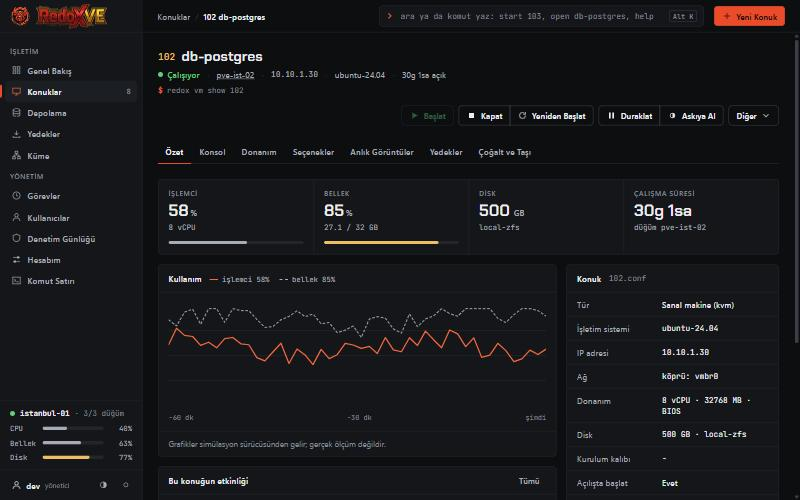
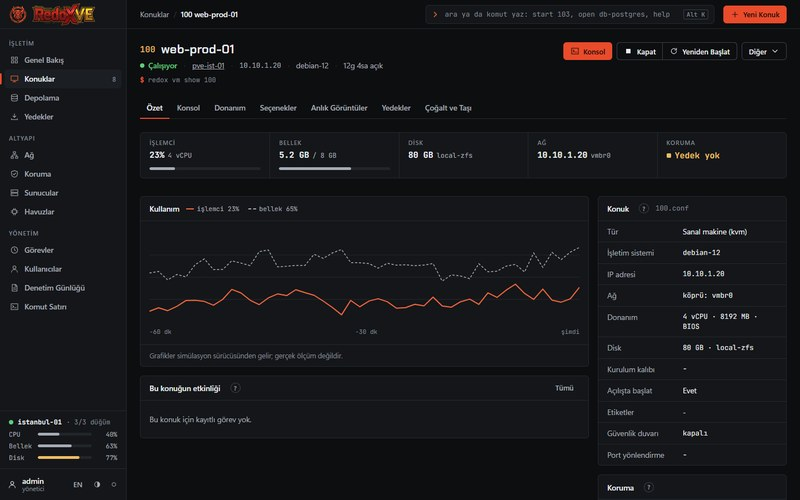
docs: describe the regrouped panel and refresh the screenshots
README, the install guides and the wiki sources name the new Network,
Protection and Servers pages, the guest header and the per-user Manage
menu. Screenshots are retaken from the new layout; the live console one
is unchanged.

diff --git a/docs/wiki/en/Multiple-Servers.md b/docs/wiki/en/Multiple-Servers.md
@@ -5,11 +5,11 @@
 # Multiple servers
 
 RedoX VE has no shared cluster state: each server manages its own guests. Servers are introduced to each other as
-**peers** (`--peers FILE`, each line `NAME ADDRESS TOKEN`); the *Cluster* page shows them together.
+**peers** (`--peers FILE`, each line `NAME ADDRESS TOKEN`); the *Servers* page shows them together.
 
 ## Moving
 
-Buttons next to a peer's guest on the *Cluster* page:
+Buttons next to a peer's guest on the *Servers* page:
 
 - **Copy Here:** copies a stopped virtual machine to this server through its backup. The source stays; you delete it
   there once you see it running here.
@@ -21,17 +21,17 @@ Buttons next to a peer's guest on the *Cluster* page:
   briefly during the backup); the copy arrives stopped. LXC must be installed on this server. **Tested with fake LXC
   tools; not tried with real LXC.**
 
-**Live migration:** a running VM can also be moved **without stopping it** (*Migrate Live* on the *Cluster* page, or `redox peer migrate <peer> <id>` on the target). The target starts the guest's QEMU paused and waiting, the source mirrors every disk to it while the guest keeps running, then migrates the memory; the guest pauses only for the last memory pages (tens of milliseconds in the tests) and continues on the target with the same ID. The guest's record and disks stay on the source, stopped and marked so that they do not start again by themselves; delete them once you are satisfied.
+**Live migration:** a running VM can also be moved **without stopping it** (*Migrate Live* on the *Servers* page, or `redox peer migrate <peer> <id>` on the target). The target starts the guest's QEMU paused and waiting, the source mirrors every disk to it while the guest keeps running, then migrates the memory; the guest pauses only for the last memory pages (tens of milliseconds in the tests) and continues on the target with the same ID. The guest's record and disks stay on the source, stopped and marked so that they do not start again by themselves; delete them once you are satisfied.
 
 The two QEMU processes connect to each other directly: the source must be able to reach the target on the ports given with `--migrate-ports` (default 49152-49215, two per migration; open them between the servers only). If the address the source sees the target under differs from where the request came from, set `--migrate-host` on the target. Both connections are encrypted with a one-time key (TLS with a pre-shared key) that travels over the management connection, so use `https` between the servers.
 
 Not every guest can be moved live: UEFI or virtual TPM, an attached installation image, a cloud-init drive, shared folders, passed-through host devices and disks that depend on a template or backup block it (the message says which); the same ID must be free on the target, and both servers need the same QEMU version and a compatible CPU model. Tested on real QEMU 10.2 with a Linux guest on one machine (two servers, loopback network); not tried between two physical machines, with a Windows guest, or with large and busy guests.
 
-**Evacuating a server for maintenance:** `redox maintenance on --evacuate <peer>` (or *Evacuate My Guests Here* next to the peer on the *Cluster* page) puts this server into maintenance mode and moves its running virtual machines to the peer one by one, without stopping them. Guests that cannot be migrated live stay where they are; add `--drain` to stop those instead (they start again when maintenance ends). The peer does the pulling, so it must list this server in its own `--peers` file; if it cannot be recognised by address, give the name it has there with `--as`. The moved guests keep running on the peer when maintenance ends. To bring one back, use *Migrate Live* from this server: the guest returns with the same ID and replaces the stopped copy that was left behind (its backups stay attached). A left-behind copy that has been started by hand is treated as a guest in its own right and is never replaced. Tested with fake QEMU between two servers; the migration underneath is the same one tested on real QEMU.
+**Evacuating a server for maintenance:** `redox maintenance on --evacuate <peer>` (or *Evacuate My Guests Here* next to the peer on the *Servers* page) puts this server into maintenance mode and moves its running virtual machines to the peer one by one, without stopping them. Guests that cannot be migrated live stay where they are; add `--drain` to stop those instead (they start again when maintenance ends). The peer does the pulling, so it must list this server in its own `--peers` file; if it cannot be recognised by address, give the name it has there with `--as`. The moved guests keep running on the peer when maintenance ends. To bring one back, use *Migrate Live* from this server: the guest returns with the same ID and replaces the stopped copy that was left behind (its backups stay attached). A left-behind copy that has been started by hand is treated as a guest in its own right and is never replaced. Tested with fake QEMU between two servers; the migration underneath is the same one tested on real QEMU.
 
 ## Load balancing advice
 
-When this server is busy (memory or CPU at 80% or more), the *Cluster* page shows a **Load balancing advice** card and
+When this server is busy (memory or CPU at 80% or more), the *Servers* page shows a **Load balancing advice** card and
 `redox balance` prints the same thing: which running virtual machine would help if it were live-migrated to which
 peer, and what the memory use would be on both sides afterwards. Nothing is moved automatically; each line has a
 *Send* button (`redox peer send <peer> <id>`), which live-migrates that virtual machine from this server to the peer.
@@ -74,7 +74,7 @@ redox mirror promote <source> 103           # take over: creates a STOPPED guest
 redox mirror delete-copy <source> 103
 ```
 
-The *Cluster* page has the same in the **Disk mirroring** and **Copies held here** cards.
+The *Protection* page has the same in the **Disk mirroring** and **Copies held here** cards.
 
 **What happens when something fails**
 
@@ -124,7 +124,7 @@ redox ft twins                     # on the twin server
 redox ft off 103
 ```
 
-The *Cluster* page has the same in the **Fault tolerance** card.
+The *Protection* page has the same in the **Fault tolerance** card.
 
 **What guest can be protected.** A virtual machine with **one disk** and **one bridged network card**, and no extra
 hardware: no hot-add, balloon, UEFI, TPM, passthrough, shared folders, ISO, cloud-init, VLAN tag, guest firewall or

diff --git a/KURULUM.md b/KURULUM.md
@@ -388,7 +388,7 @@ Sürücünün sunduğu işlemler (konuk sayfasındaki sekmelerden):
   disk alınır. Dışa aktarmak için kapalı konuğun *Çoğalt ve Taşı* sekmesinde **OVA Olarak İndir** (ya da
   `curl -H "Authorization: Bearer $REDOX_TOKEN" -o vm.ova $REDOX_URL/api/v1/guests/103/export`): tanım ve bütün diskler
   (streamOptimized vmdk) tek arşivde gelir.
-- **Askıya alma:** konuk sayfasının başlığında **Askıya Al** (ya da `redox vm suspend 103`): konuğun bellek ve aygıt
+- **Askıya alma:** konuk sayfasının başlığındaki **Diğer** menüsünde **Askıya Al** (ya da `redox vm suspend 103`): konuğun bellek ve aygıt
   durumu diske (`images/vm-<kimlik>.state`) yazılır ve konuk kapanır; sunucuyu yeniden başlatabilirsiniz. **Başlat**
   konuğu kaldığı yerden sürdürür (duraklatılmışken askıya alındıysa duraklatılmış döner). Askıdayken disk ve donanım
   değiştirilemez: geri yükleme, anlık görüntüye dönüş, disk ekleme reddedilir; yedek alınabilir (yedek yalnızca diski
@@ -528,7 +528,7 @@ Sürücünün sunduğu işlemler (konuk sayfasındaki sekmelerden):
   bildirim). Ek disk silme, yedek işi silme ve kullanıcı silme de aynı kurala bağlıdır. İstek sahibi kendi isteğini onaylayamaz, 24 saatte onaylanmayan istek düşer. En az iki yönetici
   hesabı gerekir. Zamanlayıcının saklama budaması bu kuralın dışındadır. Aynı kişinin iki hesabı varsa kural onu
   durdurmaz: amaç, ele geçirilen tek bir hesabın yedekleri silememesidir.
-- **Çoğaltma (yedek kopya):** *Küme* sayfasındaki **Çoğaltma** kartı ya da `redox replica add <eş> <kimlik> 60`.
+- **Çoğaltma (yedek kopya):** *Koruma* sayfasındaki **Çoğaltma** kartı ya da `redox replica add <eş> <kimlik> 60`.
   Eş sunucudaki sanal makinenin kopyası bu sunucuda verdiğiniz aralıkla (15 dakika – 1 hafta) tazelenir; kaynak
   çalışmaya devam eder, askıya alınmaz. Kopya `<ad>-kopya` adıyla kapalı durur; kaynak sunucu ölürse onu buradan
   başlatırsınız (kayıp, son turdan beri yazılanlardır). Çalışan bir kopyanın üzerine yazılmaz. **Her tur diskin
@@ -538,7 +538,7 @@ Sürücünün sunduğu işlemler (konuk sayfasındaki sekmelerden):
   sırasının tersine kapatılır; kipteyken hiçbir konuk başlatılmaz, zamanlanmış yedekler, güç işlemleri, çoğaltma ve
   kendiliğinden yeniden başlatma durur. Kip durum dosyasında saklanır: sunucu bu sırada yeniden başlasa da konuklar
   açılmaz. `redox maintenance off` kapatılan konukları açılış sırasıyla yeniden başlatır. Konukları başka sunucuya
-  kendiliğinden taşımaz; taşımak istediklerinizi önce öbür sunucunun *Küme* sayfasından alın.
+  kendiliğinden taşımaz; taşımak istediklerinizi önce öbür sunucunun *Sunucular* sayfasından alın.
 - **Zamanlanmış yedek sınaması:** hizmet satırına `--backup-test-every 7@03:00`. Her sanal makinenin en yeni yedeği
   7 günde bir, 03:00'ten başlayan dört saatlik pencerede sırayla (aynı anda tek sınama) açılıp sınanır; sonuç
   yedeğin satırına ve günlük rapora yazılır.
@@ -706,7 +706,7 @@ Arayüz Türkçe ve İngilizcedir. Her kullanıcı üst çubuktaki **EN / TR** d
 
 ### 10.2 Birleşik görünüm (birden çok sunucu)
 
-Birkaç RedoX VE sunucunuz varsa birini "merkez" yapıp diğerlerinin düğüm ve konuklarını **Küme**
+Birkaç RedoX VE sunucunuz varsa birini "merkez" yapıp diğerlerinin düğüm ve konuklarını **Sunucular**
 sayfasında görebilirsiniz. Bu **gerçek bir küme değildir**: görünüm salt okunurdur, her sunucu kendi
 konuklarını yönetir; ortak durum ve kendiliğinden devralma yoktur (konuk taşıma aşağıda). Konuğun adına tıklamak
 sizi o sunucunun arayüzüne götürür (orada ayrıca giriş yaparsınız).
@@ -736,7 +736,7 @@ edilir. Eşin sertifikası geçerli olmalıdır (kendinden imzalı sertifika red
 token'ı reddeden eş sayfada nedeniyle birlikte gösterilir; diğerleri etkilenmez. Komut satırından:
 `redox peer list`.
 
-**Sanal makine taşıma:** eşteki **kapalı** bir sanal makineyi merkeze kopyalamak için *Küme* sayfasındaki
+**Sanal makine taşıma:** eşteki **kapalı** bir sanal makineyi merkeze kopyalamak için *Sunucular* sayfasındaki
 **Buraya Al** düğmesini ya da `redox peer import izmir 103` komutunu kullanın. Bunun için eş dosyasındaki token
 eşte **yönetici** yetkili olmalıdır. Merkez eşte bir yedek aldırır, indirir, yeni bir kimlikle konuğu oluşturur ve
 eşteki geçici yedeği siler. Kaynak konuk yerinde kalır: kopyanın çalıştığını görünce eşte siz silersiniz. Köprü
@@ -873,7 +873,7 @@ sudo -u redox redox user scope nobet web,test --users /var/lib/redox/users.json 
 ```
 
 Kapsam boşsa operatör bütün konuklarda yetkilidir. Operatör bütün konukları **görür**; kapsam yalnızca işlem yapmayı
-kısıtlar. Kaynak kotaları için 8. bölümdeki *Kaynak havuzları* maddesine bakın. Rol ve kapsam *Kullanıcılar* sayfasından da değişir.
+kısıtlar. Kaynak kotaları için 8. bölümdeki *Kaynak havuzları* maddesine bakın. Rol ve kapsam *Kullanıcılar* sayfasında, kullanıcının **Yönet** menüsünden açılan sayfadan da değişir.
 
 **Tek oturum açma (OpenID Connect):** kimlik sağlayıcınızda (Keycloak, Authentik, Google, Microsoft Entra) bir istemci
 oluşturun; dönüş adresi `https://redox.example.com/login/oidc/callback` olsun.

diff --git a/INSTALL.md b/INSTALL.md
@@ -437,7 +437,7 @@ What the driver offers, from the tabs of a guest page:
   **another** administrator (`redox approval list | approve <n> | reject <n>`, or the notice at the top of every
   page). Removing an extra disk, a backup job or a user follows the same rule. The requester cannot approve their own request; requests expire after 24 hours. Needs at least two
   administrator accounts. Retention pruning by the scheduler is exempt.
-- **Replication (standby copy):** the **Çoğaltma** card on the cluster page, or `redox replica add <peer> <id> 60`.
+- **Replication (standby copy):** the **Çoğaltma** card on the protection page (*Koruma*), or `redox replica add <peer> <id> 60`.
   A copy of a peer's VM is refreshed on this server at the interval you give (15 minutes to 1 week); the source
   keeps running and is not suspended. The copy is a stopped guest named `<name>-kopya`; if the source server dies
   you start it here (you lose what was written since the last run). A running copy is never overwritten. **Every
@@ -587,8 +587,8 @@ with `REDOX_LANG=en`; `--lang en` also makes the server's startup messages, aler
 
 ### 10.2 Combined view (several servers)
 
-With several RedoX VE servers, make one the hub and see the others' nodes and guests on the cluster page
-(*Küme*). This is **not a real cluster**: the view is read-only and each server manages its own guests.
+With several RedoX VE servers, make one the hub and see the others' nodes and guests on the servers page
+(*Sunucular*). This is **not a real cluster**: the view is read-only and each server manages its own guests.
 
 1. On every **peer**, create a read-only user and a token:
 
@@ -610,7 +610,7 @@ With several RedoX VE servers, make one the hub and see the others' nodes and gu
 
 The URL must be `https://`; plain `http://` is accepted only for peers on the same machine. `redox peer list`.
 
-**Moving a VM:** *Buraya Al* on the cluster page, or `redox peer import izmir 103`, copies a **stopped** VM from
+**Moving a VM:** *Buraya Al* on the servers page (*Sunucular*), or `redox peer import izmir 103`, copies a **stopped** VM from
 a peer to the hub. The token in the peer file must be an **admin** token on the peer. The hub has the peer take
 a backup, downloads it, creates the guest and deletes the temporary backup. The source stays in place. A bridge
 that does not exist on the hub becomes NAT; USB/PCI passthrough is dropped. Extra disks come with their numbers

diff --git a/README.tr.md b/README.tr.md
@@ -53,7 +53,7 @@ geliştirme sunucusu. Kümelenmiş bir sanallaştırıcı değildir ([Sınırlar
 - Dağıtık anahtarlar (`redox switch`): bir kez tanımlanıp bütün eşlere gönderilen ortak VXLAN konuk ağı; ağı küçük bir root yardımcısı kurar ve yalnızca kendi aygıtlarına dokunur.
 - Yük dengeleme önerisi (`redox balance`): sunucu sıkıştığında çalışan hangi sanal makinenin hangi eşe canlı taşınacağını söyler; kendiliğinden bir şey taşımaz, taşımayı `redox peer send` yapar.
 - Sunucu profili (`redox profile export | diff | apply`): bir sunucunun ayarlarını başkasıyla karşılaştırır, havuzları ve yedek işlerini eşitler.
-- Destek paketi (`redox support > destek.json` ya da *Küme* sayfası): sürüm, yetenekler, ayarlar, konukların donanımı ve son görevler tek dosyada; parola, token ve denetim günlüğü içermez.
+- Destek paketi (`redox support > destek.json` ya da *Sunucular* sayfası): sürüm, yetenekler, ayarlar, konukların donanımı ve son görevler tek dosyada; parola, token ve denetim günlüğü içermez.
 - Sunucunun kendi konsolunda durum ekranı: ad, adresler, panelin adresi, hizmetin yanıt verip vermediği ve çalışan konuk sayısı; Enter ile oturum açılır.
 - `vmdk`, `vdi`, `vhdx` disklerini ve OVA arşivlerini içe aktarma; konuğu OVA olarak dışa aktarma.
 - Şablonlar, tam klonlar ve bağlı klonlar (bağlı klon bir saniyenin altında hazır olur).

diff --git a/README.md b/README.md
@@ -58,7 +58,7 @@ development host. It is not a clustered hypervisor (see [Limits](#limits)).
 - Distributed switches (`redox switch`): one VXLAN guest network defined once and sent to every peer; a small root helper builds it and touches only its own devices.
 - Load balancing advice (`redox balance`): when a server is busy, which running VM to live-migrate to which peer; nothing moves by itself, `redox peer send` does the move.
 - Server profiles (`redox profile export | diff | apply`): compare one server's settings with another's and bring pools and backup jobs in line.
-- A support bundle (`redox support > bundle.json`, or *Cluster* page): version, capabilities, settings, guest hardware and recent tasks in one file, without passwords, tokens or the audit log.
+- A support bundle (`redox support > bundle.json`, or the *Servers* page): version, capabilities, settings, guest hardware and recent tasks in one file, without passwords, tokens or the audit log.
 - A status screen on the server's own console: name, addresses, where the web interface is, whether the service answers and how many guests run; Enter logs in.
 - Import `vmdk`, `vdi`, `vhdx` disks and OVA archives; export a guest as OVA.
 - Templates, full clones and linked clones (a linked clone is ready in under a second).

diff --git a/docs/wiki/en/Home.md b/docs/wiki/en/Home.md
@@ -26,6 +26,22 @@ terminal and security key pages).
 | Interface language | [Language](Language.md) |
 | Common problems | [Troubleshooting](Troubleshooting.md) |
 
+## Finding your way in the panel
+
+The left menu has three groups:
+
+| Group | Pages |
+|---|---|
+| **Operations** | *Overview* (summary and the **Needs attention** list), *Guests*, *Storage*, *Backups* |
+| **Infrastructure** | *Network* (server network, distributed switches, security groups), *Protection* (replication, disk mirroring, fault tolerance, shared storage), *Servers* (peer servers, moving guests, load balancing, support bundle), *Pools* |
+| **Administration** | *Tasks*, *Users*, *Audit Log*, *Command Line* |
+
+*My Account* is the user row at the bottom of the menu (click your name); the language and theme buttons are there too.
+On a narrow screen the menu opens with the **Menu** button at the top.
+
+The header of a guest page shows only what applies right now: **Start** for a stopped guest; **Console**, **Turn off**
+and **Restart** for a running one. Pause, suspend, backup, clone, template and delete are in the **More** menu.
+
 ## Know what has been tried
 
 Every feature is covered by automated tests, and the QEMU driver has also been exercised against real QEMU/KVM. Some

diff --git a/docs/wiki/tr/Ana-Sayfa.md b/docs/wiki/tr/Ana-Sayfa.md
@@ -26,6 +26,22 @@ kullanmaz.
 | Arayüz dili | [Dil](Dil.md) |
 | Sık karşılaşılan sorunlar | [Sorun giderme](Sorun-Giderme.md) |
 
+## Panelde gezinme
+
+Sol menü üç gruptur:
+
+| Grup | Sayfalar |
+|---|---|
+| **İşletim** | *Genel Bakış* (özet ve **Dikkat gerektirenler** listesi), *Konuklar*, *Depolama*, *Yedekler* |
+| **Altyapı** | *Ağ* (sunucu ağı, dağıtık anahtarlar, güvenlik grupları), *Koruma* (çoğaltma, disk yansıtma, hata toleransı, ortak depo), *Sunucular* (eş sunucular, taşıma, yük dengeleme, destek paketi), *Havuzlar* |
+| **Yönetim** | *Görevler*, *Kullanıcılar*, *Denetim Günlüğü*, *Komut Satırı* |
+
+*Hesabım* menünün altındaki kullanıcı satırındadır (adınıza tıklayın); dil ve tema düğmeleri de oradadır. Dar ekranda
+menü, üstteki **Menü** düğmesiyle açılır.
+
+Konuk sayfasının başlığında yalnızca o an geçerli işlemler durur: kapalı konukta **Başlat**; çalışan konukta **Konsol**,
+**Kapat** ve **Yeniden Başlat**. Duraklatma, askıya alma, yedek, klon, şablon ve silme **Diğer** menüsündedir.
+
 ## Neyin denendiğini bilin
 
 Her özellik otomatik testlerle sınanır; QEMU sürücüsü ayrıca gerçek QEMU/KVM üzerinde denenmiştir. Bazı parçalar ise

diff --git a/docs/wiki/en/Networking-and-Security.md b/docs/wiki/en/Networking-and-Security.md
@@ -25,7 +25,7 @@ redox switch list                                               # local state an
 redox switch remove vds-web --everywhere
 ```
 
-The *Cluster* page has the same in a **Distributed switches** card.
+The *Network* page has the same in a **Distributed switches** card.
 
 * The name must start with `vds`. The definition is identical on every server; each one recognises **its own** address
   among the members and uses it as the local end of the tunnel.
@@ -115,7 +115,7 @@ redox hostnet vlan bond0 20
 redox hostnet bridge vmbr1 ports=bond0.20 vlan-aware=true
 ```
 
-`redox-hostnet.service` builds the network (DHCP needs `dnsmasq-base`). The server's management card cannot be moved into a bridge from the panel. To check by hand: `redox net apply /var/lib/redox/hostnet.json --dry-run`.
+The *Network* page has the same in the **Server network** card. `redox-hostnet.service` builds the network (DHCP needs `dnsmasq-base`). The server's management card cannot be moved into a bridge from the panel. To check by hand: `redox net apply /var/lib/redox/hostnet.json --dry-run`.
 
 ## TLS and LDAP
 

diff --git a/docs/wiki/tr/Ag-ve-Guvenlik.md b/docs/wiki/tr/Ag-ve-Guvenlik.md
@@ -25,7 +25,7 @@ redox switch list                                               # bu sunucudaki 
 redox switch remove vds-web --everywhere
 ```
 
-Aynı işlemler *Küme* sayfasındaki **Dağıtık anahtarlar** kartındadır.
+Aynı işlemler *Ağ* sayfasındaki **Dağıtık anahtarlar** kartındadır.
 
 * Ad `vds` ile başlamalıdır. Tanım her sunucuda birebir aynıdır; her sunucu üyeler arasından **kendi** adresini tanır
   ve tünelin yerel ucu olarak onu kullanır.
@@ -114,7 +114,7 @@ redox hostnet vlan bond0 20
 redox hostnet bridge vmbr1 ports=bond0.20 vlan-aware=true
 ```
 
-Ağı `redox-hostnet.service` kurar (DHCP için `dnsmasq-base`). Sunucunun yönetim kartı panelden köprüye taşınamaz. Elle denemek için: `redox net apply /var/lib/redox/hostnet.json --dry-run`.
+Aynı işlemler *Ağ* sayfasındaki **Sunucu ağı** kartındadır. Ağı `redox-hostnet.service` kurar (DHCP için `dnsmasq-base`). Sunucunun yönetim kartı panelden köprüye taşınamaz. Elle denemek için: `redox net apply /var/lib/redox/hostnet.json --dry-run`.
 
 ## TLS ve LDAP
 

diff --git a/docs/wiki/tr/Kullanicilar-ve-Yetkiler.md b/docs/wiki/tr/Kullanicilar-ve-Yetkiler.md
@@ -12,7 +12,11 @@
 | Operatör | Kapsamındaki (etiketlerine göre) konuklarda güç, konsol, anlık görüntü ve yedek. |
 | İzleyici | Yalnızca okuma. |
 
-Kullanıcılar sunucuda `redox user add <ad> --users DOSYA` ile ya da *Kullanıcılar* sayfasından oluşturulur.
+Kullanıcılar sunucuda `redox user add <ad> --users DOSYA` ile ya da *Kullanıcılar* sayfasındaki **Kullanıcı Ekle** düğmesiyle oluşturulur.
+
+*Kullanıcılar* sayfasında her satırın sonunda bir **Yönet** menüsü vardır: oturumları kapatmak ve ikinci adımı sıfırlamak
+menüden tek tıkla yapılır; rol, operatör yetkileri ve kapsamı, parola sıfırlama, API token'ları ve silme o kullanıcının
+kendi sayfasındadır (menüden ya da kullanıcının adına tıklayarak açılır).
 
 ## API token'ları
 

diff --git a/docs/wiki/en/Users-and-Access.md b/docs/wiki/en/Users-and-Access.md
@@ -12,7 +12,11 @@
 | Operator | Power, console, snapshots and backups on guests in scope (by tag). |
 | Viewer | Read only. |
 
-Users are created on the server with `redox user add <name> --users FILE` or on the *Users* page.
+Users are created on the server with `redox user add <name> --users FILE` or with **Add User** on the *Users* page.
+
+Every row of the *Users* page ends with a **Manage** menu: closing sessions and resetting the second step are one click
+there; role, operator permissions and scope, password reset, API tokens and deletion are on that user's own page
+(open it from the menu or by clicking the user's name).
 
 ## API tokens
 
